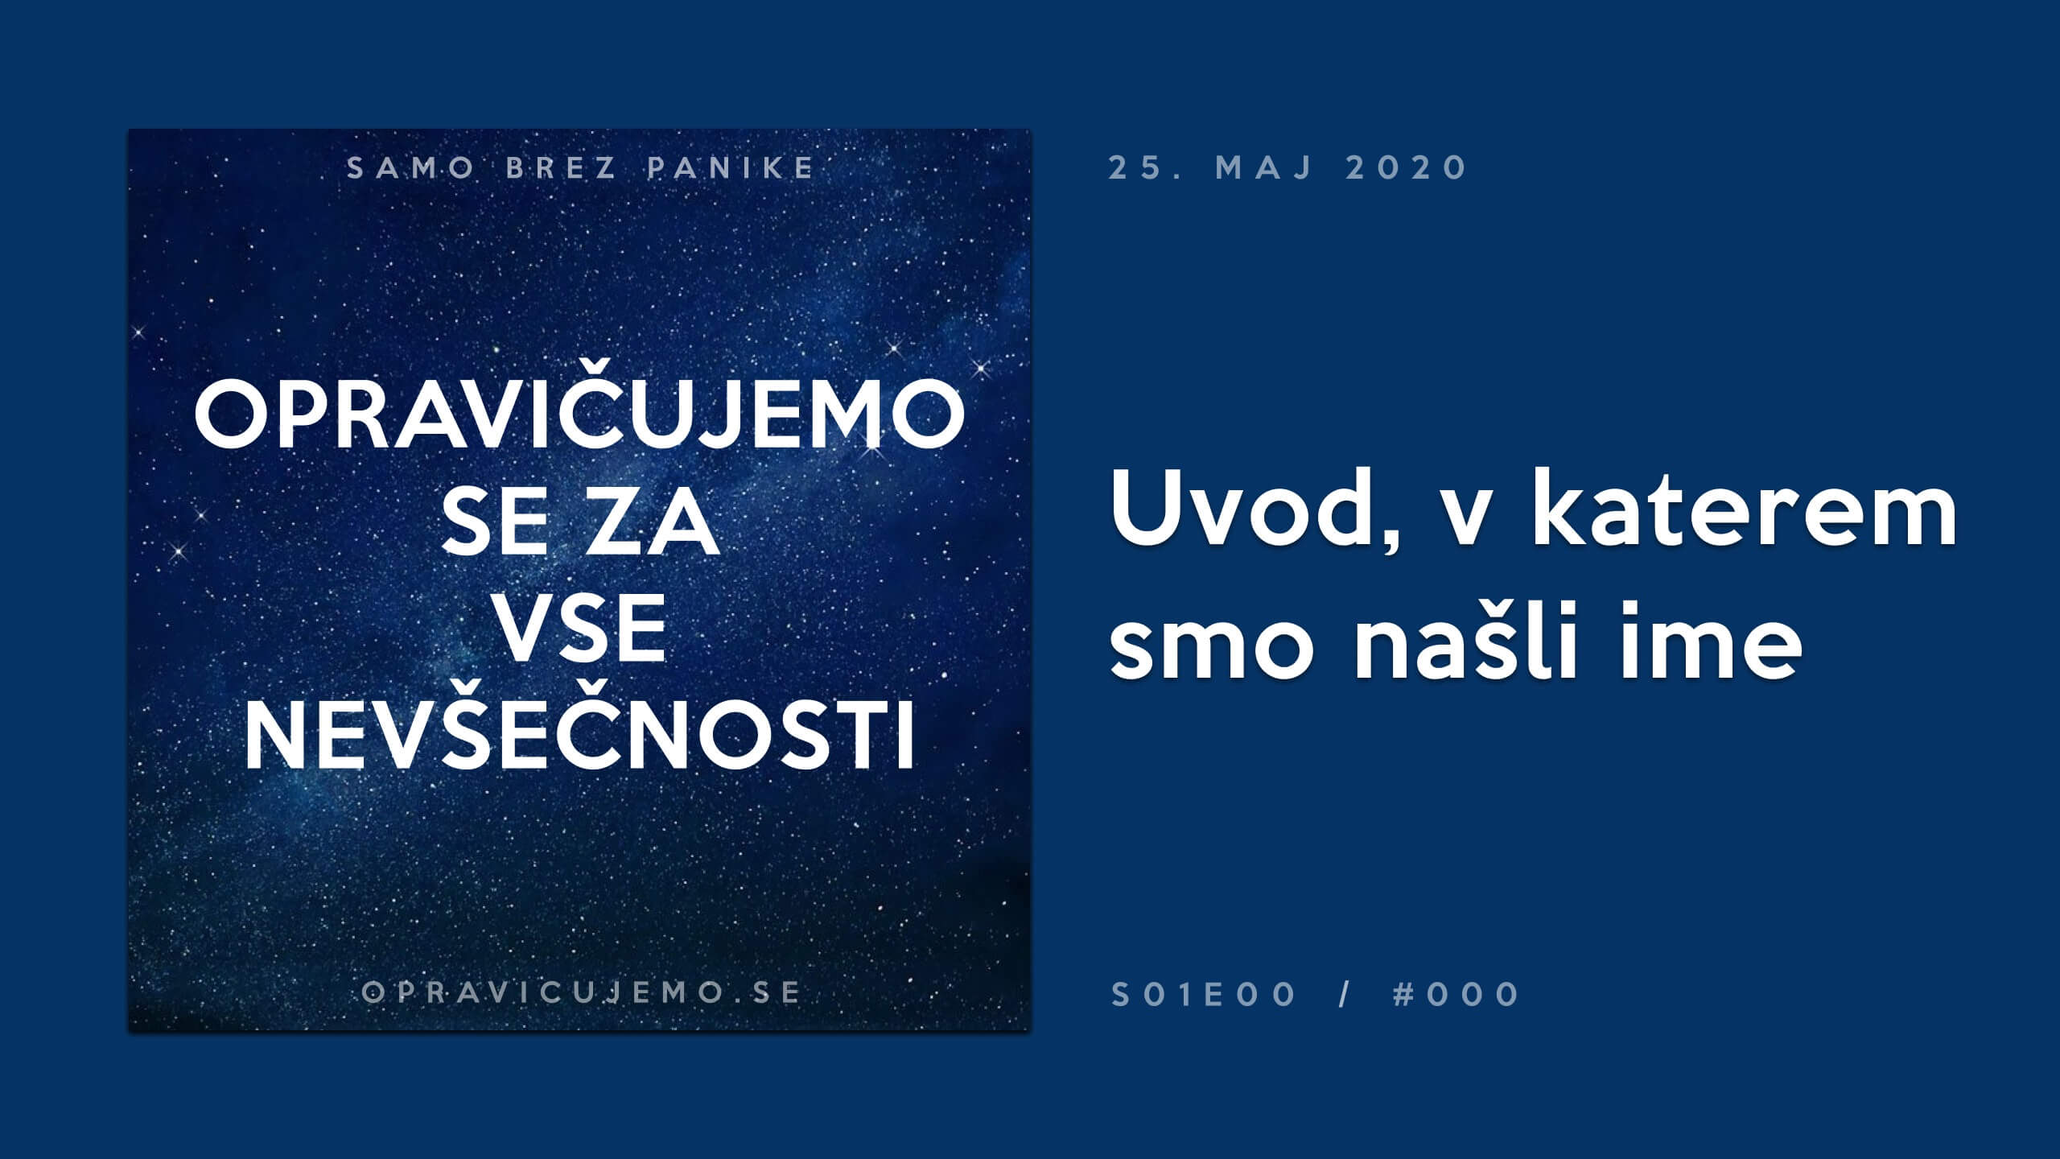
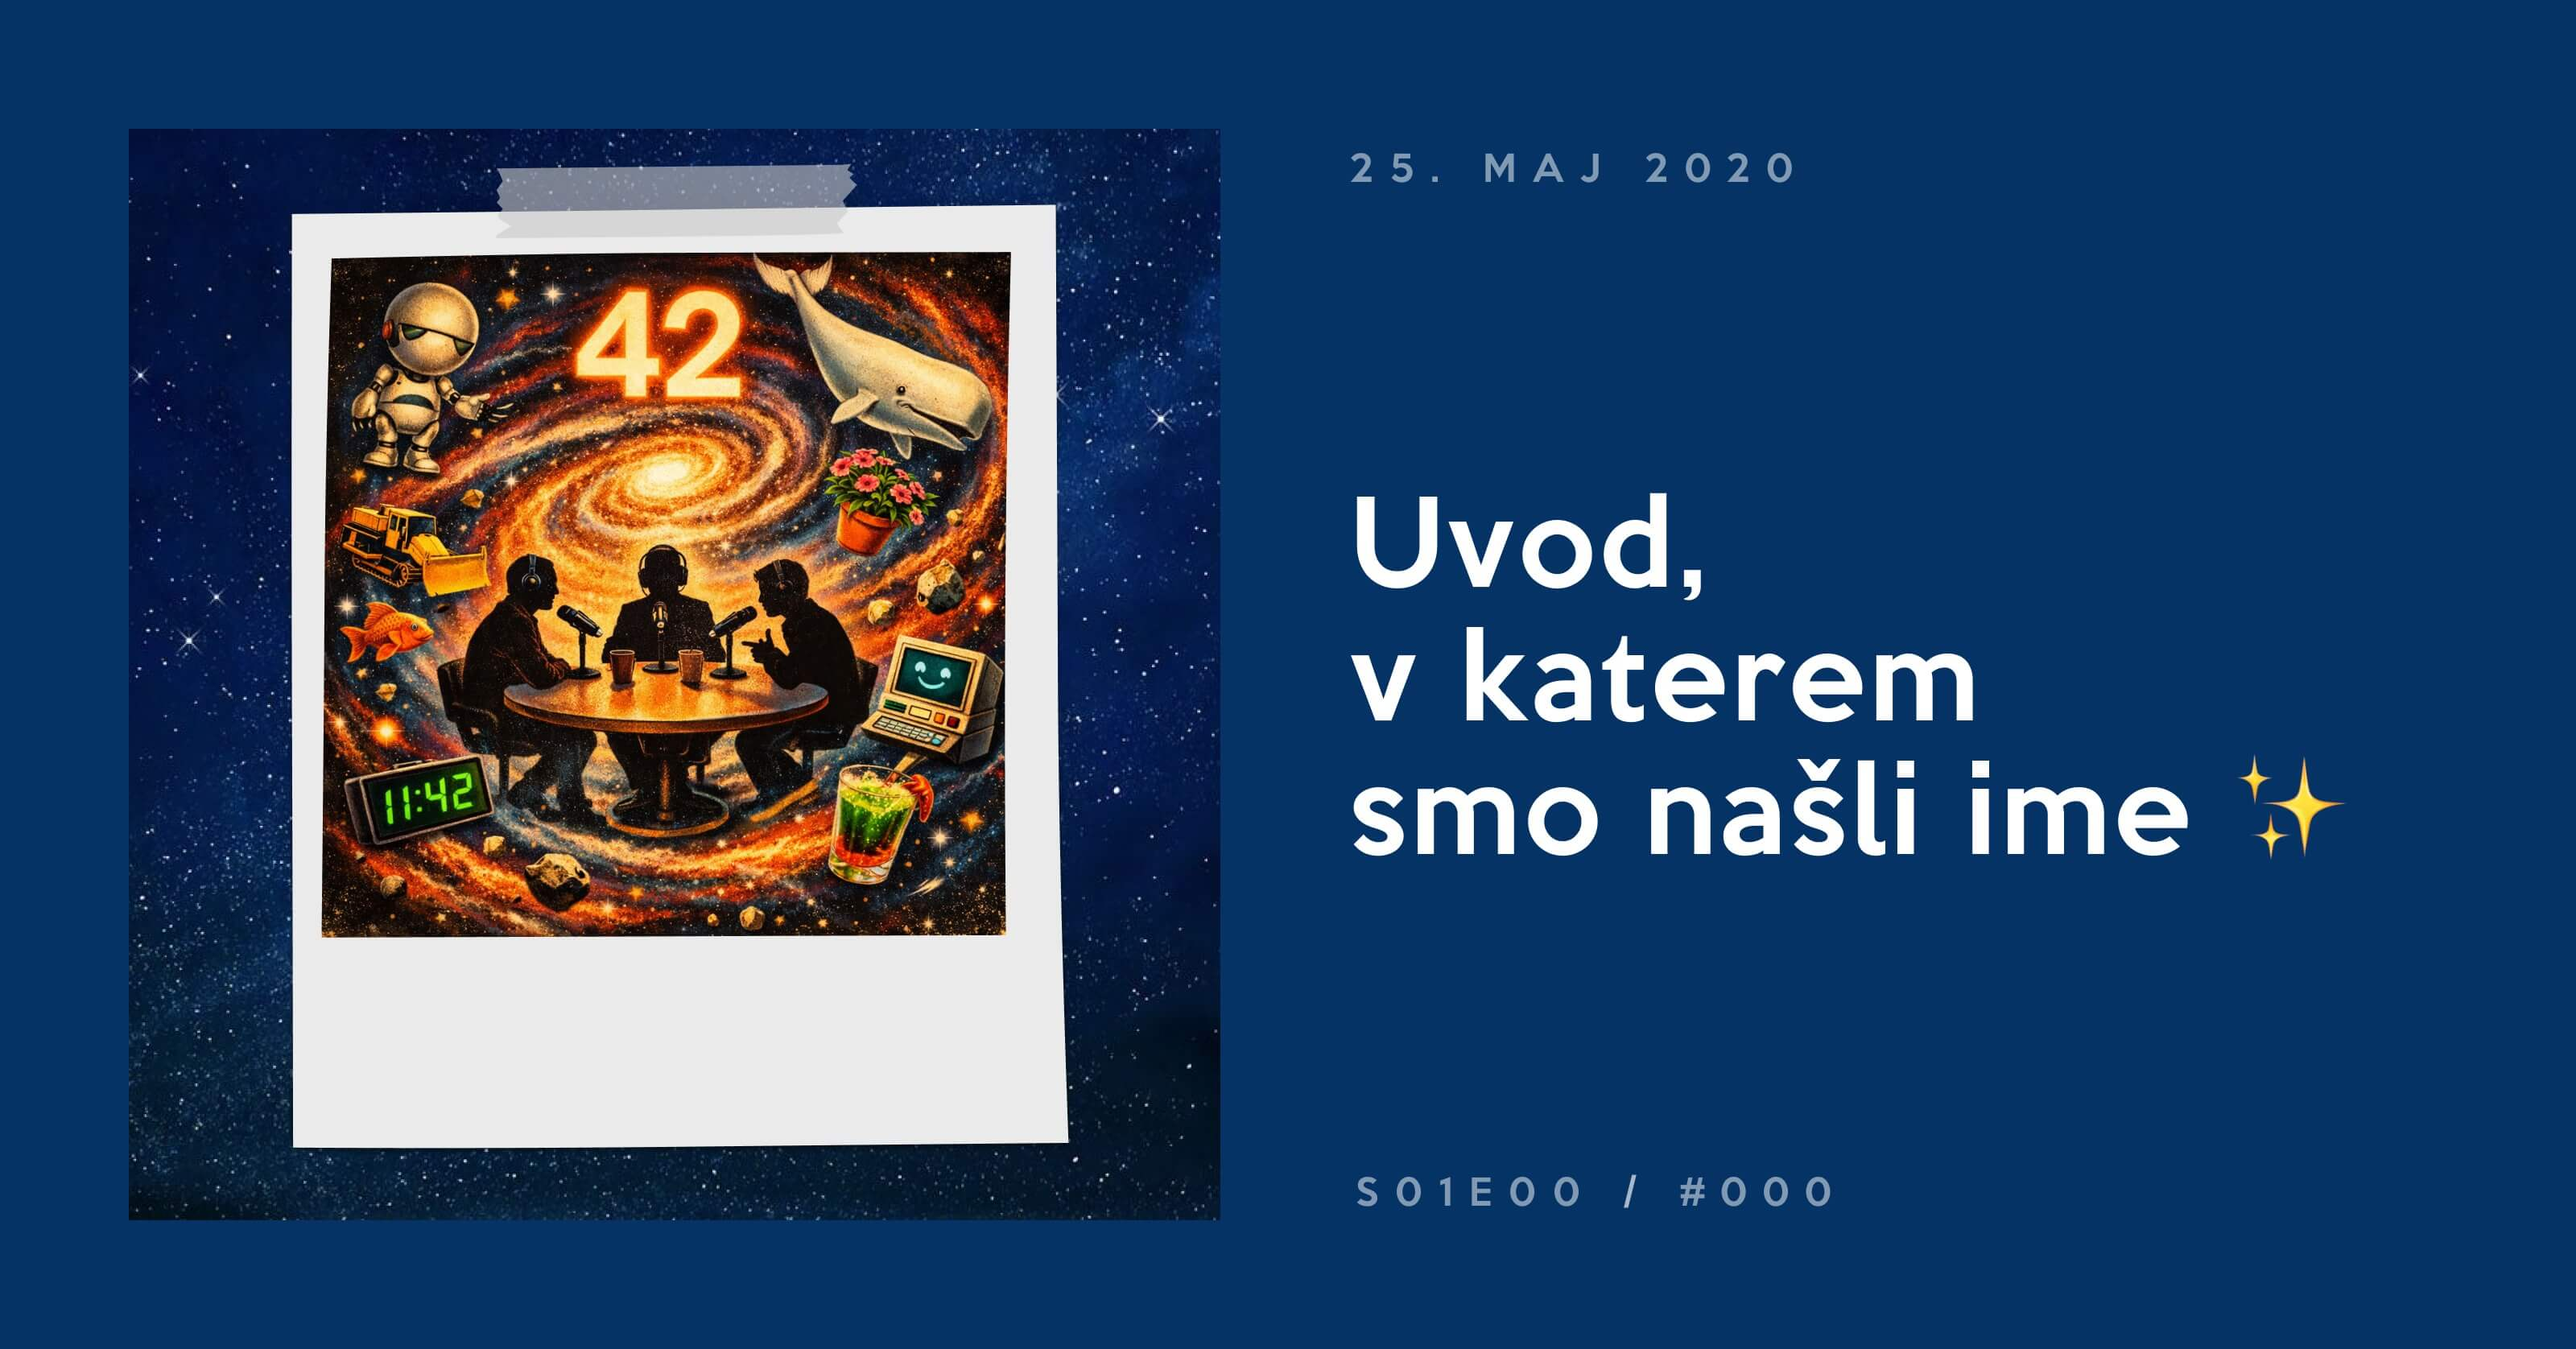
000

diff --git a/_posts/2020-05-25-000.md b/_posts/2020-05-25-000.md
@@ -1,11 +1,12 @@
 ---
 layout: post
-title:  "Uvod, v katerem smo našli ime"
+title:  "Uvod, v katerem smo našli ime ✨"
 number: "#000"
 categories: epizode
 permalink: /000/
 tagline: V ničti epizodi novega podkasta o knjigi, ki je najbrž bolj popularna kot Encyclopedia Galactica, smo našli ime za podkast in se pogovarjali o Douglasu Adamsu in še kaj! Citat prebere Boštjan Gorenc - Pižama!
 image:		/assets/img/000@2x.jpg
+cover:		/assets/img/cover/000 img@2x.png
 apple:		https://apple.co/2YGhnhl
 pocket:		https://pca.st/zqlh1e4s
 overcast:	https://overcast.fm/+beHjC0OY0
@@ -17,15 +18,18 @@ embed: https://podcasts.apple.com/si/podcast/uvod-v-katerem-smo-na%C5%A1li-ime/i
 tags: [Štoparski vodnik po Galaksiji, Alojz Kodre, Aleš Skodlar, bog, Boštjan Gorenc Pižama, Encyclopaedia Galactica, Davorin Pavlica, digitalne ure, Douglas Adams, Gregor Zalaznik, hvalazavseribe.si, ime podkasta, uvod, trilogija v petih delih, znanstvena fantastika, Opravičujemo se za vse nevšečnosti, samo brez panike, zgodba o dekletu]
 ---
 
-V ničti epizodi novega podkasta o knjigi, ki je najbrž bolj popularna kot _Encyclopaedia Galactica_, smo našli ime za podkast in se pogovarjali o Douglasu Adamsu, **Boštjan Gorenc - Pižama** je prebral Uvod v _Štoparski vodnik po Galaksiji_, spomnili pa smo se tudi na zgodbo o dekletu! 
+V ničti epizodi novega podkasta o knjigi, ki je najbrž bolj popularna kot _Encyclopaedia Galactica_, smo našli ime za podkast in se pogovarjali o Douglasu Adamsu, in o tem, kako je avtor iz enega obiska Innsbrucka ustvaril kultno radijsko igro, še bolj kultno knjižno trilogijo v petih (šestih) delih, TV serijo, računalniško igro in en še kar zanič film. 
+
+ **Boštjan Gorenc - Pižama** je prebral Uvod v _Štoparski vodnik po Galaksiji_, spomnili pa smo se tudi na zgodbo o dekletu! 
 
 {% include player.html %}
 {% include poslusaj.html %}
 
 #### Zapiski
 
-- 💬 [Boštjan Gorenc - Pižama](http://pizama.net/)
-- 📚 [Encyclopedia Galactica](https://en.wikipedia.org/wiki/Encyclopedia_Galactica)
+- 💬 [Boštjan Gorenc - Pižama](http://pizama.net/) 
+- 📚 [Encyclopedia Galactica](https://en.wikipedia.org/wiki/Encyclopedia_Galactica) 
+- 👍 [Štoparski vodnik po Galaksiji](https://en.wikipedia.org/wiki/The_Hitchhiker%27s_Guide_to_the_Galaxy) 
 - 🐬 [hvalazavseribe.si](https://hvalazavseribe.si/)
 - ... mi pa smo:
 	- [Aljo](https://twitter.com/kozli42) - znan tudi kot **Aleš Skodlar**

diff --git a/_drafts/post.md b/_drafts/post.md
@@ -7,7 +7,7 @@ permalink:	/295/
 tagline: 	"Zdravo. 👋"
 image:		/assets/img/295@2x.jpg
 cover:		/assets/img/cover/295 img@2x.png
-cover:		/assets/img/cover/000 img@2x.png
+cover:		/assets/img/cover/00 img@2x.png
 apple:		
 overcast:	
 podkite:	https://pod.link/opr/episode/__________
